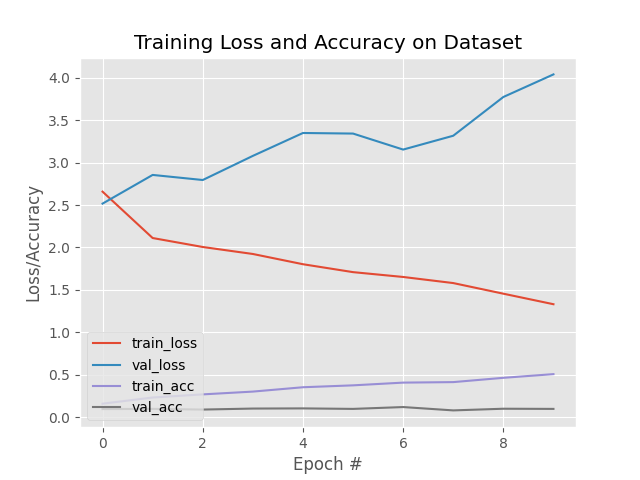
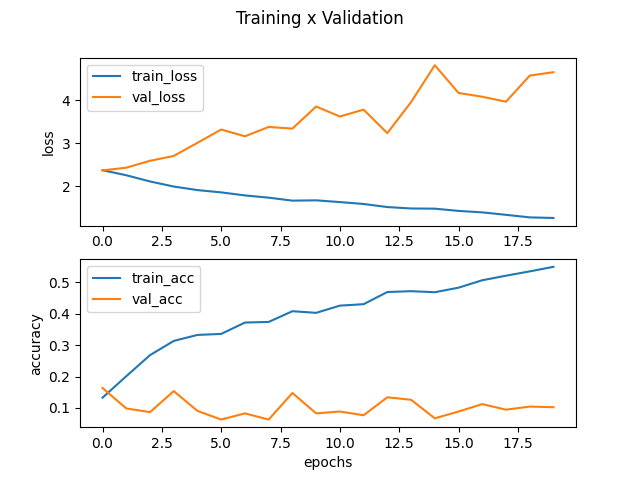
changed model from LeNet to AlexNet

diff --git a/main.py b/main.py
@@ -1,31 +1,30 @@
 import torch
 import argparse
-import matplotlib
-matplotlib.use("Agg")
 import matplotlib.pyplot as plt
 import numpy as np
+import time
 from CNN import CNN
 from CloudDataset import CloudDataset
-from torch.optim import Adam
 from torch import nn
+from torch.optim import SGD
 from sklearn.metrics import classification_report
-import time
 
 
 LEARN_RATE = 1e-3
-EPOCHS = 10
+EPOCHS = 20
 BATCH_SIZE = 64
 TRAIN_SIZE = 0.75
 DEVICE = torch.device("cuda" if torch.cuda.is_available() else "cpu")
 
-def get_batches(X, y, data_size, batch_size):
+def get_batches(X, y, data_size, batch_size, random=True):
     """
     Split a dataset and its labels into randomized batches\n
     Parameters:
     - X: input dataset (tensor)
     - y: input labels (tensor)
     - data_size: size of dataset
-    - batch_size: size of batches\n
+    - batch_size: size of batches
+    - random: decide if batches are randomized or not\n
     Return:
     - X_batches: list with image data batches (tensors)
     - y_batches: list with labels batches (tensors)
@@ -33,7 +32,7 @@ def get_batches(X, y, data_size, batch_size):
     num_batches = int(data_size / batch_size)
     X_batches = []
     y_batches = []
-    mask = torch.randperm(data_size)
+    mask = torch.randperm(data_size) if random else torch.arange(data_size)
     for n in range(num_batches):
         m = mask[n * batch_size:(n + 1) * batch_size]
         X_batches.append(X[m])
@@ -72,6 +71,7 @@ def main():
     ap.add_argument("-p", "--plot", type=str, required=True, help="./")
     args = vars(ap.parse_args())
 
+    # get dataset
     dataset = CloudDataset("database/CCSN_v2/")
     X_t, y_t, X_test, y_test = dataset.getData()
     X_train, y_train, X_val, y_val = split_data(X_t, y_t, X_t.shape[0], TRAIN_SIZE)
@@ -81,10 +81,10 @@ def main():
     num_test = X_test.shape[0]
 
     model = CNN().to(DEVICE)
-    print("Model created.")
+    print("> Model created.")
 
-    optimizer = Adam(model.parameters(), lr=LEARN_RATE) #optimizer
-    loss_func = nn.NLLLoss() #loss function
+    optimizer = SGD(model.parameters(), lr=LEARN_RATE, weight_decay = 0.005, momentum = 0.9) #optimizer
+    loss_func = nn.CrossEntropyLoss() #loss function
     history = {
         "train_loss": [],
         "train_acc": [],
@@ -92,52 +92,52 @@ def main():
         "val_acc": []
     } #history of statistics
 
-    print("Training the network...")
+    print("> Training the network...")
     start = time.time()
 
     for ep in range(EPOCHS):
+        # set model to training mode
         model.train()
-        # initialize the total training and validation loss
+        
         train_loss = 0
         val_loss = 0
-        # initialize the number of correct predictions in the training
-        # and validation step
         num_train_correct = 0
         num_val_correct = 0
-        # loop over the training set
-        X_batches_train, y_batches_train = get_batches(X_train, y_train, num_train, BATCH_SIZE)
+        
+        # split the training set into batches and iterate over them
+        X_batches_train, y_batches_train = get_batches(X_train, y_train, num_train, BATCH_SIZE, random=True)
         for X_batch_train, y_batch_train in zip(X_batches_train, y_batches_train):
             # send the input to the device
             X_batch_train = X_batch_train.to(DEVICE)
             y_batch_train = y_batch_train.type(torch.LongTensor)
             y_batch_train = y_batch_train.to(DEVICE)
-            # perform a forward pass and calculate the training loss
-            pred = model(X_batch_train)
-            loss = loss_func(pred, y_batch_train)
-            # zero out the gradients, perform the backpropagation step,
-            # and update the weights
-            optimizer.zero_grad()
-            loss.backward()
-            optimizer.step()
-            # add the loss to the total training loss so far and
+            
+            pred = model(X_batch_train) #forward pass
+            loss = loss_func(pred, y_batch_train) #calculate loss
+            optimizer.zero_grad() #zero out the gradients
+            loss.backward() #backpropagation
+            optimizer.step() #update weights
+            train_loss += loss #accumulate training loss
+            
             # calculate the number of correct predictions
-            train_loss += loss
             num_train_correct += (pred.argmax(1) == y_batch_train).type(torch.float).sum().item()
 
         # switch off autograd for evaluation
         with torch.no_grad():
-            # set the model in evaluation mode
+            # set model to evaluation mode
             model.eval()
-            # loop over the validation set
-            X_batches_val, y_batches_val = get_batches(X_val, y_val, num_val, BATCH_SIZE)
+            
+            # split the validation set into batches and iterate over them
+            X_batches_val, y_batches_val = get_batches(X_val, y_val, num_val, BATCH_SIZE, random=False)
             for X_batch_val, y_batch_val in zip(X_batches_val, y_batches_val):
                 # send the input to the device
                 X_batch_val = X_batch_val.to(DEVICE)
                 y_batch_val = y_batch_train.type(torch.LongTensor)
                 y_batch_val = y_batch_val.to(DEVICE)
-                # make the predictions and calculate the validation loss
-                pred = model(X_batch_val)
-                val_loss += loss_func(pred, y_batch_val)
+                
+                pred = model(X_batch_val) # make the predictions
+                val_loss += loss_func(pred, y_batch_val) #accumulate validation loss
+                
                 # calculate the number of correct predictions
                 num_val_correct += (pred.argmax(1) == y_batch_val).type(torch.float).sum().item()
         
@@ -146,57 +146,65 @@ def main():
         num_iter_val = max(num_val // BATCH_SIZE, 1)
         avg_train_loss = train_loss / num_iter_train
         avg_val_loss = val_loss / num_iter_val
+        
         # calculate the training and validation accuracy
         num_train_correct = num_train_correct / num_train
         num_val_correct = num_val_correct / num_val
-        # update our training history
+        
+        # update training history
         history["train_loss"].append(avg_train_loss.cpu().detach().numpy())
         history["train_acc"].append(num_train_correct)
         history["val_loss"].append(avg_val_loss.cpu().detach().numpy())
         history["val_acc"].append(num_val_correct)
+        
         # print the model training and validation information
-        print("[INFO] EPOCH: {}/{}".format(ep + 1, EPOCHS))
+        print("> EPOCH: {}/{}".format(ep + 1, EPOCHS))
         print("Train loss: {:.6f}, Train accuracy: {:.4f}".format(
             avg_train_loss, num_train_correct))
         print("Val loss: {:.6f}, Val accuracy: {:.4f}\n".format(
             avg_val_loss, num_val_correct))
     
-    # finish measuring how long training took
+    # print runtime of training
     end = time.time()
-    print("[INFO] total time taken to train the model: {:.2f}s".format(end - start))
-    # we can now evaluate the network on the test set
-    print("[INFO] evaluating network...")
+    print("> Runtime: {:.2f}s".format(end - start))
+    
+    print("> Evaluating network...")
     # turn off autograd for testing evaluation
     with torch.no_grad():
-        # set the model in evaluation mode
         model.eval()
+        
         # initialize a list to store our predictions
         preds = []
-        # loop over the test set
-        X_batches_test, y_batches_test = get_batches(X_test, y_test, num_test, BATCH_SIZE)
+        # split the test set into batches and iterate over them
+        X_batches_test, y_batches_test = get_batches(X_test, y_test, num_test, BATCH_SIZE, random=False)
         for X_batch_test, y_batches_test in zip(X_batches_test, y_batches_test):
             # send the input to the device
             X_batch_test = X_batch_test.to(DEVICE)
+            
             # make the predictions and add them to the list
             pred = model(X_batch_test)
             preds.extend(pred.argmax(axis=1).cpu().numpy())
+            
         # generate a classification report
         classes_names = ["Ac", "As", "Cb", "Cc", "Ci", "Cs", "Ct", "Cu", "Ns", "Sc", "St"]
-        print(classification_report(y_test[:-1].cpu().numpy(), np.array(preds), target_names=classes_names))
+        print(classification_report(y_test[:-1].cpu().numpy(), np.array(preds), target_names=classes_names, zero_division=0))
 
     # plot the training loss and accuracy
-    plt.style.use("ggplot")
-    plt.figure()
-    plt.plot(history["train_loss"], label="train_loss")
-    plt.plot(history["val_loss"], label="val_loss")
-    plt.plot(history["train_acc"], label="train_acc")
-    plt.plot(history["val_acc"], label="val_acc")
-    plt.title("Training Loss and Accuracy on Dataset")
-    plt.xlabel("Epoch #")
-    plt.ylabel("Loss/Accuracy")
-    plt.legend(loc="lower left")
+    fig, axis = plt.subplots(2)
+    fig.suptitle("Training x Validation")
+    
+    line1, = axis[0].plot(list(range(EPOCHS)), history["train_loss"], label="train_loss")
+    line2, = axis[0].plot(list(range(EPOCHS)), history["val_loss"], label="val_loss")
+    axis[0].set_ylabel("loss")
+    axis[0].legend(handles=[line1, line2])
+    
+    line3, = axis[1].plot(list(range(EPOCHS)), history["train_acc"], label="train_acc")
+    line4, = axis[1].plot(list(range(EPOCHS)), history["val_acc"], label="val_acc")
+    axis[1].set_xlabel("epochs")
+    axis[1].set_ylabel("accuracy")
+    axis[1].legend(handles=[line3, line4])
+    
     plt.savefig(args["plot"])
-    # serialize the model to disk
     torch.save(model, args["model"])
 
 if __name__ == "__main__":

diff --git a/CNN.py b/CNN.py
@@ -12,41 +12,84 @@ class CNN(nn.Module):
             ):
 
         super(CNN, self).__init__()
+        
+        # # first set of Conv -> ReLU -> Max Pool layers
+        # self.conv1 = nn.Conv2d(in_channels=num_color_channels, out_channels=30, kernel_size=(5, 5))
+        # self.relu1 = nn.ReLU()
+        # self.maxpool1 = nn.MaxPool2d(kernel_size=(3, 3), stride=(2, 2))
+        # # second set of Conv -> ReLU -> Max Pool layers
+        # self.conv2 = nn.Conv2d(in_channels=30, out_channels=100, kernel_size=(5, 5))
+        # self.relu2 = nn.ReLU()
+        # self.maxpool2 = nn.MaxPool2d(kernel_size=(3, 3), stride=(2, 2))
+        # # FC -> ReLU -> FC layers
+        # self.fc1 = nn.Linear(in_features=44100, out_features=500)
+        # self.relu3 = nn.ReLU()
+        # self.fc2 = nn.Linear(in_features=500, out_features=num_classes)
+        # # Softmax classifier
+        # self.logSoftmax = nn.LogSoftmax(dim=1)
+        
+        self.layer1 = nn.Sequential(
+            nn.Conv2d(num_color_channels, 96, kernel_size=11, stride=4, padding=0),
+            nn.BatchNorm2d(96),
+            nn.ReLU(),
+            nn.MaxPool2d(kernel_size=3, stride=2))
+        self.layer2 = nn.Sequential(
+            nn.Conv2d(96, 256, kernel_size=5, stride=1, padding=2),
+            nn.BatchNorm2d(256),
+            nn.ReLU(),
+            nn.MaxPool2d(kernel_size=3, stride=2))
+        self.layer3 = nn.Sequential(
+            nn.Conv2d(256, 384, kernel_size=3, stride=1, padding=1),
+            nn.BatchNorm2d(384),
+            nn.ReLU())
+        self.layer4 = nn.Sequential(
+            nn.Conv2d(384, 384, kernel_size=3, stride=1, padding=1),
+            nn.BatchNorm2d(384),
+            nn.ReLU())
+        self.layer5 = nn.Sequential(
+            nn.Conv2d(384, 256, kernel_size=3, stride=1, padding=1),
+            nn.BatchNorm2d(256),
+            nn.ReLU(),
+            nn.MaxPool2d(kernel_size=3, stride=2))
+        self.fc = nn.Sequential(
+            nn.Dropout(0.5),
+            nn.Linear(6400, 4096),
+            nn.ReLU())
+        self.fc1 = nn.Sequential(
+            nn.Dropout(0.5),
+            nn.Linear(4096, 4096),
+            nn.ReLU())
+        self.fc2= nn.Sequential(
+            nn.Linear(4096, num_classes))
 
-        # first set of Conv -> ReLU -> Max Pool layers
-        self.conv1 = nn.Conv2d(in_channels=num_color_channels, out_channels=30, kernel_size=(5, 5))
-        self.relu1 = nn.ReLU()
-        self.maxpool1 = nn.MaxPool2d(kernel_size=(2, 2), stride=(2, 2))
-        # second set of Conv -> ReLU -> Max Pool layers
-        self.conv2 = nn.Conv2d(in_channels=30, out_channels=100, kernel_size=(5, 5))
-        self.relu2 = nn.ReLU()
-        self.maxpool2 = nn.MaxPool2d(kernel_size=(2, 2), stride=(2, 2))
-        # FC -> ReLU -> FC layers
-        self.fc1 = nn.Linear(in_features=48400, out_features=500)
-        self.relu3 = nn.ReLU()
-        self.fc2 = nn.Linear(in_features=500, out_features=num_classes)
-        # Softmax classifier
-        self.logSoftmax = nn.LogSoftmax(dim=1)
-
-    def forward(self, h):
-        h = self.conv1(h)
-        # Conv1 -> ReLU1
-        h = self.relu1(h)
-        # ReLU1 -> maxpool1
-        h = self.maxpool1(h)
-        # maxpool1 -> Conv2
-        h = self.conv2(h)
-        # Conv2 -> ReLU2
-        h = self.relu2(h)
-        # ReLU2 -> maxpool2
-        h = self.maxpool2(h)
-
-        h = flatten(h, 1) #flatten
-
-        h = self.fc1(h)
-        # FC1 -> ReLU3
-        h = self.relu3(h)
-        # ReLU3 -> FC2
-        h = self.fc2(h)
-        # FC2 -> Softmax
-        return self.logSoftmax(h)
+    def forward(self, x):
+        # x = self.conv1(x)
+        # # Conv1 -> ReLU1
+        # x = self.relu1(x)
+        # # ReLU1 -> maxpool1
+        # x = self.maxpool1(x)
+        # # maxpool1 -> Conv2
+        # x = self.conv2(x)
+        # # Conv2 -> ReLU2
+        # x = self.relu2(x)
+        # # ReLU2 -> maxpool2
+        # x = self.maxpool2(x)
+        # x = flatten(x, 1) #flatten
+        # x = self.fc1(x)
+        # # FC1 -> ReLU3
+        # x = self.relu3(x)
+        # # ReLU3 -> FC2
+        # x = self.fc2(x)
+        # # FC2 -> Softmax
+        # return self.logSoftmax(x)
+        
+        out = self.layer1(x)
+        out = self.layer2(out)
+        out = self.layer3(out)
+        out = self.layer4(out)
+        out = self.layer5(out)
+        out = out.reshape(out.size(0), -1)
+        out = self.fc(out)
+        out = self.fc1(out)
+        out = self.fc2(out)
+        return out

diff --git a/CloudDataset.py b/CloudDataset.py
@@ -35,6 +35,15 @@ class CloudDataset():
             y_train = torch.cat((y_train, yy[0:num_train]), 0)
             X_test = torch.cat((X_test, XX[num_train:N]), 0)
             y_test = torch.cat((y_test, yy[num_train:N]), 0)
+            
+        # torch.set_printoptions(threshold=10_000)
+        # counts_y = self.y_data.unique(return_counts=True)[1]
+        # print(f"{counts_y=}")
+        # counts_y_train = y_train.unique(return_counts=True)[1]
+        # print(f"{counts_y_train=}")
+        # counts_y_test = y_test.unique(return_counts=True)[1]
+        # print(f"{counts_y_test=}")
+        # print(f"{counts_y_train/counts_y=}")
 
         return X_train, y_train, X_test, y_test
 
@@ -63,7 +72,7 @@ def _loadImages(data_dir, verbose=True):
     xdata = []  #list of images data
     ydata = []  #list of labels
     count = 0   #counter for labeling
-    img_size = (100, 100)
+    img_size = (224, 224)
     transform = transforms.Compose([ transforms.ToTensor() ]) #convert to tensor
 
     if verbose: print("> Loading data from " + data_dir)
